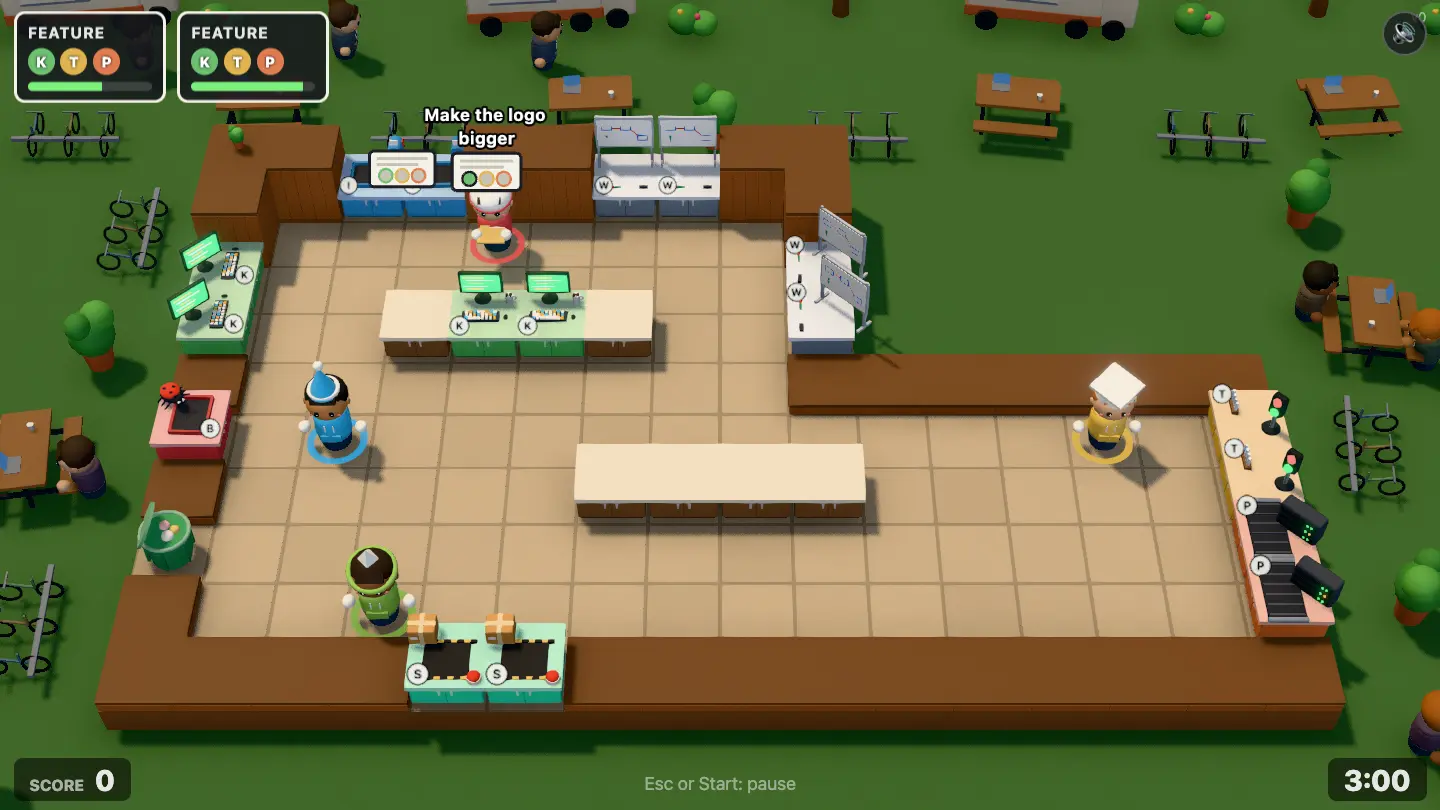
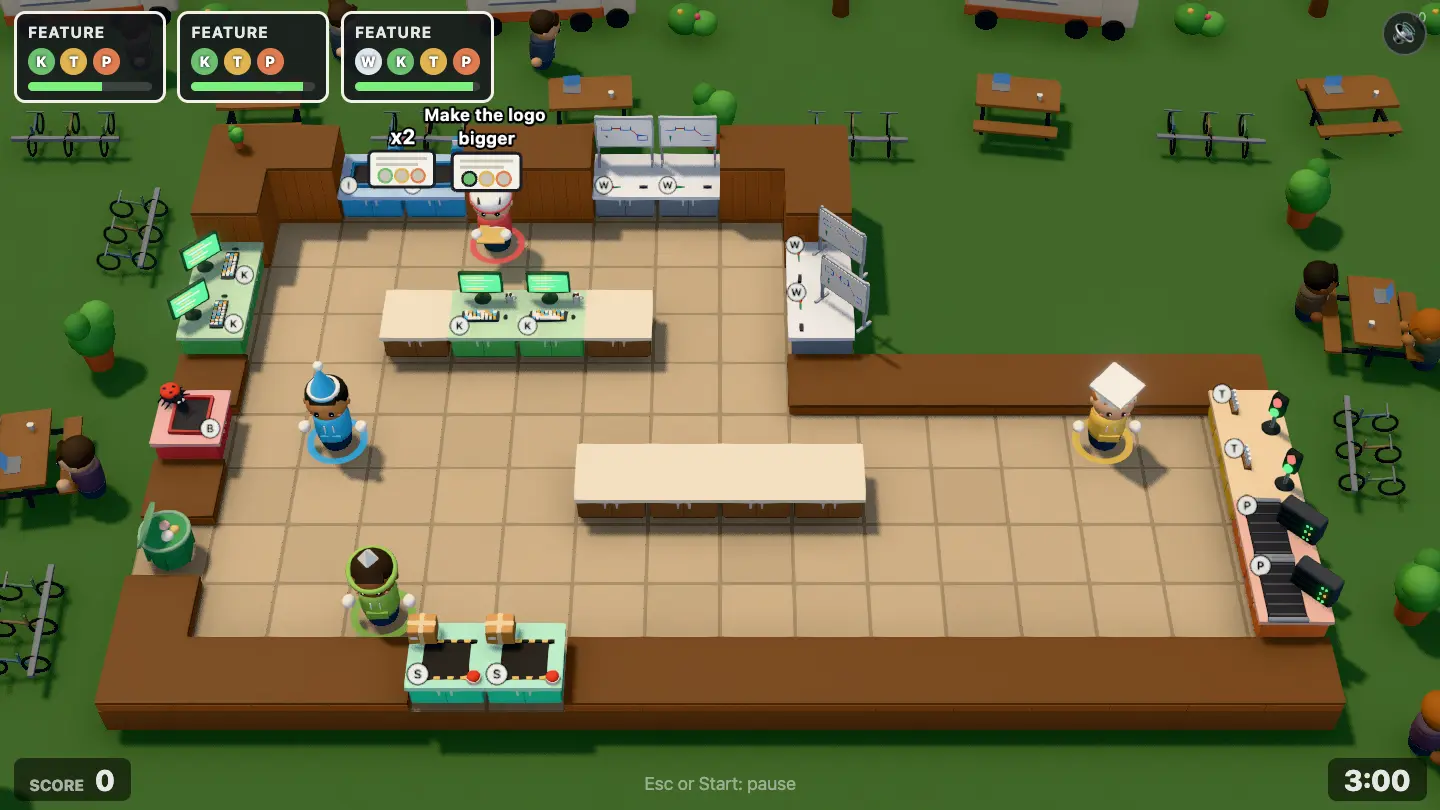
Phase 18 review fixes: landing-pad counters, a belt that delivers, bots park halves, thresholds at 2 stars for walking bots

diff --git a/src/sim/bot.ts b/src/sim/bot.ts
@@ -177,8 +177,8 @@ function chooseGoal(state: GameState, bot: Bot, bots: readonly Bot[]): Goal | nu
   if (own?.location.kind === 'tile') {
     const tile = { x: own.location.x, y: own.location.y };
     const kind = getTile(state.level, tile.x, tile.y);
-    // A coded part waits on the merge station for its other half.
-    if (kind === 'merge' && isPart(own)) {
+    // A coded part waits on the merge station for its other half, or parked on a counter.
+    if ((kind === 'merge' || kind === 'counter') && isPart(own)) {
       bot.ticketId = null;
       return chooseGoal(state, bot, bots);
     }
@@ -190,7 +190,7 @@ function chooseGoal(state: GameState, bot: Bot, bots: readonly Bot[]): Goal | nu
 
   const help = reviewHelpGoal(state, bot, bots);
   if (help) return help;
-  const merged = mergedGoal(state, bot, bots);
+  const merged = mergedGoal(state, bot, bots) ?? parkedPartGoal(state, bot, bots);
   if (merged) return merged;
   for (const queue of ['bug', 'feature'] as const satisfies readonly TicketKind[]) {
     if (queuedTickets(state, queue).length === 0) continue;
@@ -207,6 +207,24 @@ function mergedGoal(state: GameState, bot: Bot, bots: readonly Bot[]): Goal | nu
     return ticket && !isPart(ticket) && !bots.some((b) => b !== bot && b.ticketId === ticket.id);
   });
   const tile = nearest(state, bot.playerId, waiting);
+  if (!tile) return null;
+  bot.ticketId = ticketOnTile(state, tile.x, tile.y)?.id ?? null;
+  return { tile, action: 'interact' };
+}
+
+/** The nearest coded part parked on a counter that a merge station would take now. */
+function parkedPartGoal(state: GameState, bot: Bot, bots: readonly Bot[]): Goal | null {
+  const merges = tilesOf(state.level, 'merge');
+  const parked = tilesOf(state.level, 'counter').filter((t) => {
+    const ticket = ticketOnTile(state, t.x, t.y);
+    return (
+      ticket &&
+      isPart(ticket) &&
+      !bots.some((b) => b !== bot && b.ticketId === ticket.id) &&
+      merges.some((m) => canPutDown(state, ticket, m.x, m.y))
+    );
+  });
+  const tile = nearest(state, bot.playerId, parked);
   if (!tile) return null;
   bot.ticketId = ticketOnTile(state, tile.x, tile.y)?.id ?? null;
   return { tile, action: 'interact' };
@@ -240,7 +258,14 @@ function carryGoal(state: GameState, bot: Bot, bots: readonly Bot[], ticket: Tic
     const open = tilesOf(state.level, 'merge').filter((t) => canPutDown(state, ticket, t.x, t.y));
     const halves = open.filter((t) => ticketOnTile(state, t.x, t.y));
     const tile = nearest(state, bot.playerId, halves.length > 0 ? halves : open);
-    return tile ? { tile, action: 'interact' } : null;
+    if (tile) return { tile, action: 'interact' };
+    // The station is taken (by the same half, or a merged ticket): park it on a free counter.
+    const counter = nearest(
+      state,
+      bot.playerId,
+      tilesOf(state.level, 'counter').filter((t) => !ticketOnTile(state, t.x, t.y)),
+    );
+    return counter ? { tile: counter, action: 'interact' } : null;
   }
   if (!step) {
     // Without a bin, a ticket whose order expired still ships, for nothing.

diff --git a/src/sim/bot.test.ts b/src/sim/bot.test.ts
@@ -1,10 +1,11 @@
 import { describe, expect, it } from 'vitest';
 import { PIPELINE_FAIL_TICKS, REPAIR_TICKS, TICKS_PER_SECOND } from './balance';
-import { botInput, createBot, findPath, runBots } from './bot';
-import { parseLevelMap } from './level';
+import { type Bot, botInput, createBot, findPath, runBots } from './bot';
+import { getTile, parseLevelMap } from './level';
 import { DOWN_THE_HALL, GARAGE, levelWithMap } from './levels';
+import type { Ticket } from './tickets';
 import { createOrder } from './orders';
-import { createGame } from './state';
+import { type GameState, type PlayerId, createGame } from './state';
 import { pipelineAt } from './pipeline';
 import { COL, addTicket, idle, newTestGame } from './testing';
 import { tick } from './tick';
@@ -118,5 +119,62 @@ describe('bot and a broken pipeline', () => {
     }
     expect(pipelineAt(state, COL.pipeline, 1)?.broken).toBe(false);
     expect(ticket.location).toEqual({ kind: 'tile', x: COL.pipeline, y: 1 });
+  });
+});
+
+describe('bots and full-stack features', () => {
+  /** Inbox, two keyboards, merge station, two counters, test bench, pipeline, ship. */
+  const MERGE_MAP = [
+    '###########',
+    '#IKKGCCTPS#',
+    '#.........#',
+    '#1234.....#',
+    '###########',
+  ].join('\n');
+
+  function mergeGame(): GameState {
+    const state = createGame(levelWithMap(parseLevelMap(MERGE_MAP)), 1, [1, 2]);
+    state.nextOrderTick = Number.MAX_SAFE_INTEGER;
+    return state;
+  }
+
+  function play(state: GameState, bots: Bot[], seconds: number): void {
+    for (let i = 0; i < seconds * TICKS_PER_SECOND; i++) {
+      tick(
+        state,
+        bots.map((b) => botInput(state, b, bots)),
+      );
+    }
+  }
+
+  it('code both halves, merge them and ship the full-stack order', () => {
+    const state = mergeGame();
+    createOrder(state, 'fullstack', 'Checkout');
+    const before = state.score;
+    play(state, [createBot(1), createBot(2)], 40);
+    expect(state.orders).toHaveLength(0);
+    expect(state.score).toBeGreaterThan(before);
+  });
+
+  it('park a half on a counter when the merge station holds the same half', () => {
+    const state = mergeGame();
+    const part = (playerId: PlayerId | null): Ticket => {
+      const t: Ticket = {
+        id: state.nextTicketId++,
+        kind: 'frontend',
+        title: 'Checkout',
+        steps: [{ kind: 'code', progress: 1 }],
+        location: playerId === null ? { kind: 'tile', x: 4, y: 1 } : { kind: 'player', playerId },
+      };
+      state.tickets.push(t);
+      return t;
+    };
+    part(null);
+    const held = part(1);
+    play(state, [createBot(1)], 5);
+    expect(held.location.kind).toBe('tile');
+    if (held.location.kind === 'tile') {
+      expect(getTile(state.level, held.location.x, held.location.y)).toBe('counter');
+    }
   });
 });

diff --git a/src/sim/levels.ts b/src/sim/levels.ts
@@ -285,20 +285,20 @@ function chapter(id: string, index: number, levels: readonly Level[]): Chapter {
 }
 
 // ---- Big Tech: atriums, belts, design, merges and pairing ----
-// Star thresholds set from bot runs like the old levels (the bots walk round
-// the long way, merge parts but don't pair on purpose or throw), a bit above
-// the old chapters: this is the last one.
+// Star thresholds from bot runs: the bots walk everywhere (no throws, belts or
+// pairing on purpose) and land on about 2 stars; 3 stars is ~1.1x their average,
+// so the finale chapter wants the new tricks.
 
 /** Two office halves across an atrium: throw across it, use the belts, or walk the long way round. */
 export const THE_ATRIUM: Level = level('the-atrium', theAtriumMap, {
   ...GARAGE_SETTINGS,
-  starThresholds: [60, 120, 180],
+  starThresholds: [80, 155, 230],
 });
 
 /** An L-shaped floor round a courtyard: whiteboards first, keyboards built for pairs. */
 export const DESIGN_SPRINT: Level = level('design-sprint', designSprintMap, {
   ...GARAGE_SETTINGS,
-  starThresholds: [65, 130, 195],
+  starThresholds: [90, 175, 260],
   designShare: 0.6,
   pairing: true,
 });
@@ -307,7 +307,7 @@ export const DESIGN_SPRINT: Level = level('design-sprint', designSprintMap, {
 export const MONOREPO: Level = level('monorepo', monorepoMap, {
   ...GARAGE_SETTINGS,
   orderSchedule: { ...GARAGE_SETTINGS.orderSchedule, intervalTicks: 24 * SECOND },
-  starThresholds: [65, 130, 190],
+  starThresholds: [90, 175, 265],
   fullstackShare: 0.6,
   pairing: true,
 });
@@ -315,7 +315,7 @@ export const MONOREPO: Level = level('monorepo', monorepoMap, {
 /** A belt carousel round a courtyard and everything new at once, with incidents. */
 export const HACKATHON: Level = level('hackathon', hackathonMap, {
   ...GARAGE_SETTINGS,
-  starThresholds: [60, 120, 180],
+  starThresholds: [90, 180, 270],
   designShare: 0.3,
   fullstackShare: 0.4,
   pairing: true,

diff --git a/src/sim/content.ts b/src/sim/content.ts
@@ -149,8 +149,8 @@ export const LEVEL_BLURBS: Readonly<Record<string, string>> = {
   'the-reorg': 'Everything, everywhere, all at once.',
   'the-atrium': 'An atrium in the middle. Throw it across, ride the belt or walk round.',
   'design-sprint': 'Whiteboards before keyboards. Pair up to code faster.',
-  monorepo: 'Front end on one side, back end on the other. Merge in the middle.',
-  hackathon: 'A carousel of tickets and every new idea at once.',
+  monorepo: 'Full-stack features: code the front end and the back end, then merge them.',
+  hackathon: 'A belt round the middle and every new idea at once.',
 };
 
 /** Chapter names, by chapter id. */
@@ -229,7 +229,7 @@ export function levelLabel(chapter: number, level: number): string {
 
 /** On a locked chapter: how many stars it takes, and how many you have. */
 export function chapterGateHint(needed: number, have: number): string {
-  return `Needs ${needed} ★ in total (you have ${have})`;
+  return `Needs ${needed} ★ · you have ${have}`;
 }
 
 /** Shown on the results when the round opened a new chapter. */
@@ -307,7 +307,7 @@ export const LEVEL_INTRO_TIPS: Readonly<Record<string, { text: string; picture: 
   },
   hackathon: {
     picture: 'carousel',
-    text: 'A belt runs round the middle: put a ticket on and it comes round to the other side.',
+    text: 'A long belt runs round the middle and drops tickets on the counter at the bottom: put one on anywhere and it comes round.',
   },
   'back-to-back': {
     picture: 'meeting',

diff --git a/src/sim/scenes.ts b/src/sim/scenes.ts
@@ -235,8 +235,16 @@ function levelScene(level: Level): Scene {
     setup(state) {
       const first = openOrder(state, 'feature', 'Make the logo bigger', { left: 0.6 });
       openOrder(state, 'feature', 'Add dark mode', { left: 0.9 });
-      if (settingsForPlayers(level, 4).reviewShare > 0) {
+      const settings = settingsForPlayers(level, 4);
+      if (settings.reviewShare > 0) {
         openOrder(state, 'feature', 'Add AI to it', { review: true, left: 0.95 });
+      }
+      // Big Tech's orders show what's new there.
+      if ((settings.designShare ?? 0) > 0) {
+        openOrder(state, 'feature', 'Rethink onboarding', { design: true, left: 0.95 });
+      }
+      if ((settings.fullstackShare ?? 0) > 0) {
+        openOrder(state, 'fullstack', 'Add a checkout', { left: 0.9 });
       }
       give(workOn(first, 1), 1);
     },

diff --git a/src/sim/balance.ts b/src/sim/balance.ts
@@ -166,7 +166,7 @@ export const REPAIR_TICKS = 3 * TICKS_PER_SECOND;
 export const STARS_TO_UNLOCK = 1;
 /**
  * Best stars over all levels needed to open each chapter (Garage, Startup,
- * Scale-Up, Enterprise), on top of the previous level's star. Reachable
+ * Scale-Up, Enterprise, Big Tech), on top of the previous level's star. Reachable
  * with 1 to 2 stars per level.
  */
 export const CHAPTER_STAR_GATES: readonly number[] = [0, 4, 9, 13, 18];

diff --git a/docs/game/levels.md b/docs/game/levels.md
@@ -396,7 +396,7 @@ _New: belts, design, merges._
 
 ![The Atrium](images/levels/the-atrium.webp)
 
-Two office halves across an atrium. Inbox, bug queue and keyboards on the left; test benches and pipelines on the right; ship on the left again. Throw across the gap, put tickets on the belt bridges (one each way), or walk round along the bottom.
+Two office halves across an atrium. Inbox, bug queue and keyboards on the left; test benches and pipelines on the right; ship on the left again. Throw across the gap onto the counters on the far edge, put tickets on the belt bridges (one each way), or walk round along the bottom.
 
 - **New here:** Gaps you throw across, conveyor belts, a long way round.
 - **Extras:** No reviews, no incidents
@@ -404,20 +404,20 @@ Two office halves across an atrium. Inbox, bug queue and keyboards on the left; 
 
 ```text
 #II##BB###TT####
-K..1..C~~C..2..P
-K.....C~~C.....P
+K..1...~~C..2..P
+K......~~C.....P
 #......~~......#
 #....>>>>>>C...#
 #......~~......#
 #...C<<<<<<....#
-X.4...C~~C...3.T
+X.4...C~~....3.T
 #..............#
 ###SS###########
 ```
 
 | Players      | 1          | 2           | 3           | 4           |
 | ------------ | ---------- | ----------- | ----------- | ----------- |
-| ★ / ★★ / ★★★ | 60/120/180 | 100/200/310 | 140/280/410 | 170/340/500 |
+| ★ / ★★ / ★★★ | 80/160/230 | 140/260/390 | 180/360/530 | 220/430/640 |
 
 ### 5-2 Design Sprint
 
@@ -446,15 +446,15 @@ X..............P
 
 | Players      | 1          | 2           | 3           | 4           |
 | ------------ | ---------- | ----------- | ----------- | ----------- |
-| ★ / ★★ / ★★★ | 70/130/200 | 110/220/330 | 150/300/450 | 180/360/550 |
+| ★ / ★★ / ★★★ | 90/180/260 | 150/300/440 | 210/400/600 | 250/490/730 |
 
 ### 5-3 Monorepo
 
-> Front end on one side, back end on the other. Merge in the middle.
+> Full-stack features: code the front end and the back end, then merge them.
 
 ![Monorepo](images/levels/monorepo.webp)
 
-Keyboards on both sides of an atrium, the merge station below it where the halves meet, and a belt across the top. Orders come a bit slower (every 24 s) but most are full-stack.
+Keyboards on both sides of an atrium (any keyboard codes either half), the merge station just below the gap, and a belt across the top. Orders come a bit slower (every 24 s) but most are full-stack.
 
 - **New here:** Full-stack orders: front end + back end, merged at G.
 - **Extras:** 60% full-stack, pairing, orders every 24 s
@@ -475,15 +475,15 @@ B..............#
 
 | Players      | 1          | 2           | 3           | 4           |
 | ------------ | ---------- | ----------- | ----------- | ----------- |
-| ★ / ★★ / ★★★ | 70/130/190 | 110/220/320 | 150/300/440 | 180/360/530 |
+| ★ / ★★ / ★★★ | 90/180/270 | 150/300/450 | 210/400/610 | 250/490/740 |
 
 ### 5-4 Hackathon
 
-> A carousel of tickets and every new idea at once.
+> A belt round the middle and every new idea at once.
 
 ![Hackathon](images/levels/hackathon.webp)
 
-A belt carousel runs round a void in the middle: put a ticket on and it comes round to the other side. Whiteboards, a merge station, design, full-stack orders, pairing and incidents.
+A long belt runs round a void in the middle and drops tickets on the counter at the bottom: put one on anywhere and it comes round. Whiteboards, a merge station, design, full-stack orders, pairing and incidents.
 
 - **New here:** Everything new at once, on a loop.
 - **Extras:** 30% design, 40% full-stack, pairing, incidents
@@ -496,7 +496,7 @@ A belt carousel runs round a void in the middle: put a ticket on and it comes ro
 #...^      v...T
 K...^      v...T
 K...^      v...#
-#...^<<<<<<<...#
+#...^<<<<v<<...#
 #.3...G..CC..4.#
 X..............#
 ###SS###TT##PP##
@@ -504,4 +504,4 @@ X..............#
 
 | Players      | 1          | 2           | 3           | 4           |
 | ------------ | ---------- | ----------- | ----------- | ----------- |
-| ★ / ★★ / ★★★ | 60/120/180 | 100/200/310 | 140/280/410 | 170/340/500 |
+| ★ / ★★ / ★★★ | 90/180/270 | 150/310/460 | 210/410/620 | 250/500/760 |

diff --git a/docs/plan/phase-18-big-tech.md b/docs/plan/phase-18-big-tech.md
@@ -4,12 +4,12 @@
 
 ## Levels
 
-| #   | Level             | Shape and layout gimmick                                                                                                                              | New mechanic             |
-| --- | ----------------- | ----------------------------------------------------------------------------------------------------------------------------------------------------- | ------------------------ |
-| 5-1 | **The Atrium**    | Two office halves across an atrium gap. Inbox and keyboards on one side, test and pipeline on the other; throw across, or use the one conveyor bridge | Gaps, conveyors          |
-| 5-2 | **Design Sprint** | An L-shaped floor wrapped around a courtyard (void); whiteboards in the corner, keyboards made for pairing                                            | Design, pair programming |
-| 5-3 | **Monorepo**      | Front-end team on the left island, back-end team on the right, the merge station on a narrow peninsula between them that both can throw to            | Merge                    |
-| 5-4 | **Hackathon**     | A ring around a void courtyard with a conveyor loop; everything at once                                                                               | All of the above         |
+| #   | Level             | Shape and layout gimmick                                                                                                                           | New mechanic             |
+| --- | ----------------- | -------------------------------------------------------------------------------------------------------------------------------------------------- | ------------------------ |
+| 5-1 | **The Atrium**    | Two office halves across an atrium gap. Inbox and keyboards on one side, test and pipeline on the other; throw across, or use the conveyor bridges | Gaps, conveyors          |
+| 5-2 | **Design Sprint** | An L-shaped floor wrapped around a courtyard (void); whiteboards in the corner, keyboards made for pairing                                         | Design, pair programming |
+| 5-3 | **Monorepo**      | Front-end team on the left island, back-end team on the right, the merge station on a narrow peninsula between them that both can throw to         | Merge                    |
+| 5-4 | **Hackathon**     | A ring around a void courtyard with a conveyor loop; everything at once                                                                            | All of the above         |
 
 ## Scope
 

diff --git a/docs/plan/review-notes-15.md b/docs/plan/review-notes-15.md
@@ -48,8 +48,10 @@ Decisions made without the product owner, who asked for the work to go ahead on 
 - **The Atrium has a walkway** along the bottom (the plan had two halves with only throws and belts between them): with one player, nobody could get to the other half. Throwing and the belts are the fast way across; walking round is the slow way.
 - **The campus is 16 tiles wide** (the old levels are 14): room for an atrium and two working halves. It still fits the screen in 2D and 3D.
 - **Bots learned to merge** (carry a coded part to the merge station, fetch the merged ticket) so they can play every Big Tech level, and the demo plays them too. They still don't throw, pair on purpose or use belts: they walk.
-- **Star thresholds come from bot runs**, like the old levels, set a bit higher (bots earn 2 to 3 stars, as on the old levels). Humans throw and pair, bots don't, so these may want tuning after playtests.
+- **Star thresholds come from bot runs** (5 seeds, 1 to 4 bots): bots only walk (no throws, belts or pairing on purpose) and land on about 2 stars; 3 stars sits at about 1.1× their average, so the finale chapter asks for the new tricks. Old chapters let walking bots reach 3 stars; these may want tuning after playtests.
 - **The chapter gate is 18 stars** (Enterprise opens at 13).
 - **No music of its own:** Big Tech plays the Scale-Up track.
 - **Campus surroundings:** lawns and a paved path, picnic tables with people at lunch, bike racks, food trucks, trees, and once a level a fountain. Scooters and a slide from the plan are left for later.
 - **Level select:** five chapter columns, cards a little tighter so all sixteen fit at 720p.
+- **Review round 1:** The Atrium's counters on the thrower's side of the gap are floor now (they caught your own throws); only the far-side counters are landing pads. Hackathon's belt is no longer a closed loop: it ends on the counter at the bottom middle, so it delivers. Bots park a coded half on a counter when the merge station holds the same half, and pick it back up when it fits. Monorepo's blurb no longer promises front-end and back-end sides (any keyboard codes either half).
+- **Left after review round 1:** Design Sprint's void corner is only a shape (nothing crosses it); the level shots use the generic order scene, not a design or full-stack order; walkways on the gap levels stay generous.

diff --git a/docs/game/mechanics.md b/docs/game/mechanics.md
@@ -110,7 +110,7 @@ Levels don't have to be a rectangle any more. Blank tiles in a map are **void**:
 
 ## Conveyor belts (from chapter 5, Big Tech)
 
-`>` `<` `^` `v` are belts: the message queue. Put a ticket on one and it moves one tile every half second along the arrows, onto the next belt and then onto the counter or station the belt points at. A belt waits when what's ahead is full. Belts that run in a closed loop (Hackathon) carry tickets round and round until someone picks one off.
+`>` `<` `^` `v` are belts: the message queue. Put a ticket on one and it moves one tile every half second along the arrows, onto the next belt and then onto the counter or station the belt points at. A belt waits when what's ahead is full. You can also pick a ticket off a belt as it passes.
 
 ![The conveyor bridge carries tickets across the atrium to the test side](images/mechanics/conveyor.webp)
 
@@ -122,7 +122,7 @@ Some feature orders start at the whiteboard (`W`): design → code → test → 
 
 ## Front end + back end: merging (from Monorepo)
 
-A **full-stack** order arrives as two tickets in the inbox: a front end and a back end (the order card shows two K chips, marked FE and BE). Code both, then put them on the **merge station** (`G`, git merge) one after the other: they become one full-stack ticket that still needs testing and the pipeline. Halves can't ship on their own. Full-stack orders pay 30 and last 1.5× as long. Throwing a coded half onto the station or letting a belt bring it works too.
+A **full-stack** order arrives as two tickets in the inbox: a front end and a back end (the order card shows two K chips, marked FE and BE). Code both, then put them on the **merge station** (`G`, git merge) one after the other: they become one full-stack ticket that still needs testing and the pipeline. Halves can't ship on their own. Full-stack orders pay 30 and last 1.5× as long. Throwing a coded half onto the station works too, and so would a belt that ends at it.
 
 ![The back end lands on the merge station next to its front end](images/mechanics/merge.webp)
 
